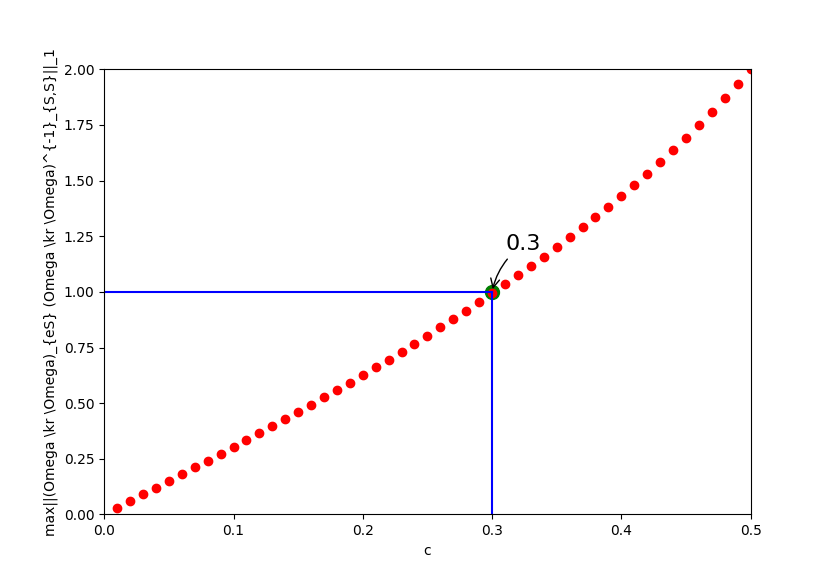
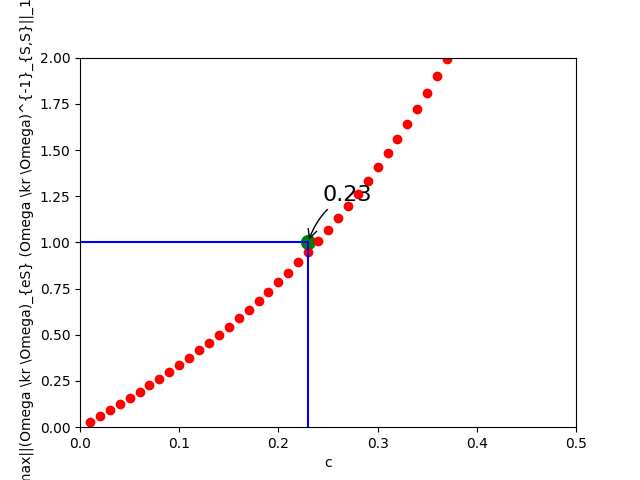
pgm homework2

diff --git a/Kronecker_product_two.py b/Kronecker_product_two.py
@@ -11,7 +11,7 @@ def get_GL_condition(c=0.1):
 	# Kronecker product of Omega \kr Omega
 	KP=np.kron(Omega,np.eye(4))+np.kron(np.eye(4),Omega)
 	# calculate S, it will be a list
-	edge_set = [[1,2],[2,1],[1,3],[3,1],[3,4],[4,3],[2,4],[4,2],[2,3],[3,2]]
+	edge_set = [[1,2],[2,1],[1,3],[3,1],[3,4],[4,3],[2,4],[4,2],[2,3],[3,2],[1,1],[2,2],[3,3],[4,4]]
 	Slist=[]
 	for [a,b] in edge_set:
 		Slist.append((a-1)*Omega.shape[0]+(b-1))

diff --git a/Kronecker_product_one.py b/Kronecker_product_one.py
@@ -11,7 +11,7 @@ def get_GL_condition(c=0.1):
 	# Kronecker product of Omega \kr Omega
 	KP=np.kron(Omega,Omega)
 	# calculate S, it will be a list
-	edge_set = [[1,2],[2,1],[1,3],[3,1],[3,4],[4,3],[2,4],[4,2],[2,3],[3,2]]
+	edge_set = [[1,2],[2,1],[1,3],[3,1],[3,4],[4,3],[2,4],[4,2],[2,3],[3,2],[1,1],[2,2],[3,3],[4,4]]
 	Slist=[]
 	for [a,b] in edge_set:
 		Slist.append((a-1)*Omega.shape[0]+(b-1))
